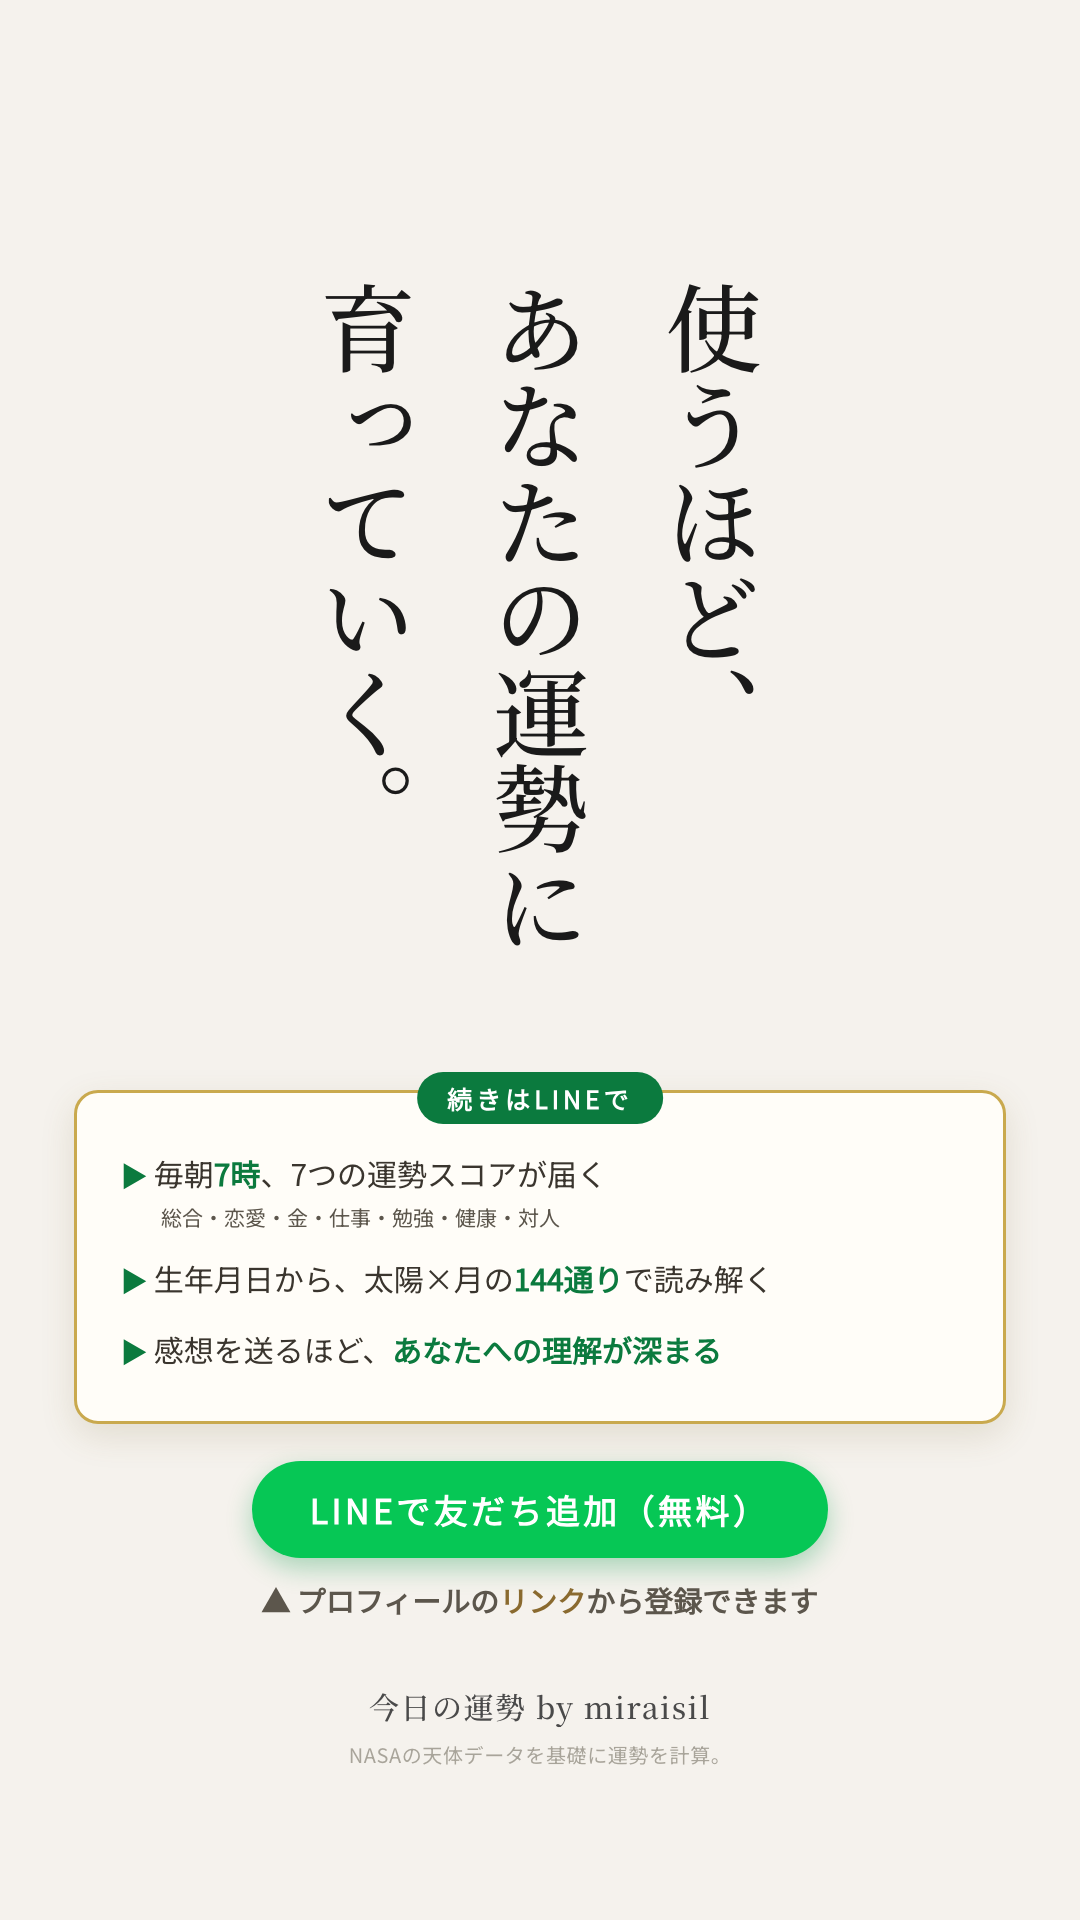
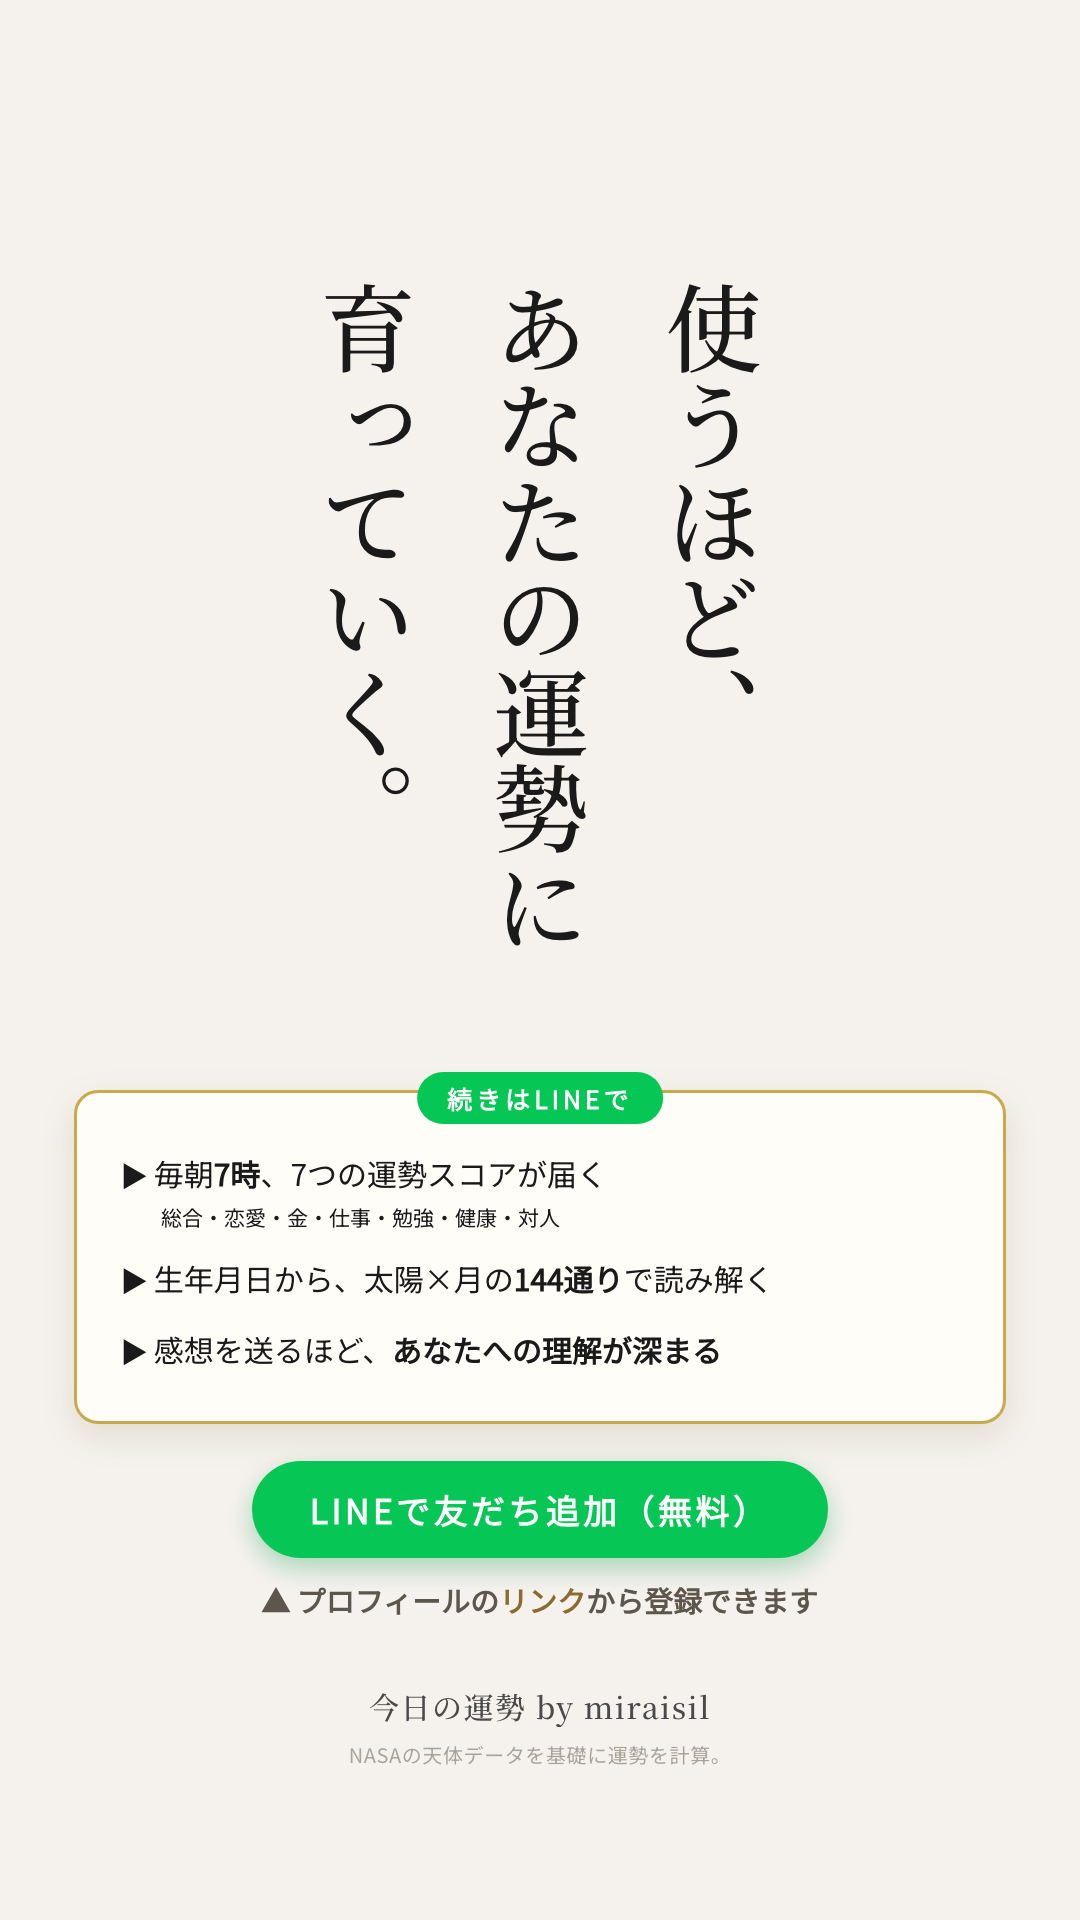
CTA slide: scope green down to just the pill and button
Bold list highlights, arrows, and subline all move to the same dark
ink (#1a1a1a) as the body/heading instead of green. Pill and button
now share one exact green (#06C755, LINE's brand color) instead of
two slightly different greens.

diff --git a/story-4slide-test/index.html b/story-4slide-test/index.html
@@ -35,22 +35,23 @@
 <body>
 <div class="label">ストーリーズ4枚構成 TEST（CTAスライド3点修正） &middot; Internal Only</div>
 <div class="fixnote">
-<b>【現状確認】CTAスライド(slide4) 追加4点修正・未コミット</b><br>
-dataunsei-automation 側にはまだコミットしていません。デザイン・文言はまだ確定していません。
-既存のレイアウト・見出し（使うほど〜）・144通り・ボタン・フッタ位置は維持し、以下4点のみ変更:<br>
-1. ピルのラベル文言: 「LINEなら」→「続きはLINEで」<br>
-2. ボタン直上の「続きはLINEで。」の行を削除（ピルに移したため重複を解消）<br>
-3. ピル＋枠内の太字部分（▶の矢印・7時／144通り／あなたへの理解 等の強調語）の色を濃いグリーンに変更。<br>
-　過去コミット（dataunsei-automation・miraisil-web双方、CTAカード導入時のcbcae64まで遡って確認）に
-　緑を使っていた版は見つからなかったため、友だち追加ボタンのLINEグリーン(#06C755)と同じ色相（約145-148°）
-　で調和する濃いめの緑を新規に採用: <code>#0B7A3E</code><br>
-4. サブライン「総合・恋愛・金・仕事・勉強・健康・対人」の色を <code>#9a9280</code>（薄すぎた）→
-　<code>#5c564c</code>（既存の▲注記と同じ濃さ）に変更<br>
-※カード外枠（.cta-card border）は今回の指示範囲外のため <code>#c9a94e</code>（金）のまま変更していません。
-必要であれば別途ご指示ください。
+<b>【現状確認】CTAスライド(slide4) 緑を要所だけに絞って整理・未コミット</b><br>
+dataunsei-automation 側にはまだコミットしていません。デザイン・文言はまだ確定していません。<br>
+前回「緑を使いすぎてうるさい」とのご指摘を受け、緑をピルとボタンの2箇所だけに絞りました:<br>
+1. 箇条書きの強調語（▶矢印・7時／144通り／あなたへの理解 など）: 緑をやめ、色は本文と同じ
+　<code>#1a1a1a</code>（太字は維持、強弱は色でなく太さだけで表現）<br>
+2. ピルとボタンの緑を同一カラーコードに統一: どちらも <code>#06C755</code>（LINE公式ブランドグリーン）。
+　前回採用した独自の濃緑<code>#0B7A3E</code>は廃止し、ボタンと完全に同じ色にしました<br>
+3. サブライン「総合・恋愛・金・仕事・勉強・健康・対人」: <code>#5c564c</code>→本文と同じ濃さの
+　<code>#1a1a1a</code>に（中黒区切りは維持）<br>
+4. 箇条書き本文（毎朝7時〜のリード文）: <code>#3a352e</code>→上半分の見出しと同じ
+　<code>#1a1a1a</code>に統一<br>
+結果、カード内のテキストは矢印・本文・強調語・サブラインすべて同一の墨色<code>#1a1a1a</code>で統一され、
+緑はピルとボタンの2点アクセントのみになっています。<br>
+※カード外枠（.cta-card border）は今回も指示範囲外のため <code>#c9a94e</code>（金）のまま変更していません。
 </div>
 <div class="row">
-  <figure><img src="cta_uncommitted_preview.png"><figcaption><b>CTA（現状・未コミット・4点修正版）</b></figcaption></figure>
+  <figure><img src="cta_uncommitted_preview.png"><figcaption><b>CTA（現状・未コミット・緑を要所だけに整理）</b></figcaption></figure>
 </div>
 
 <div class="fixnote">
